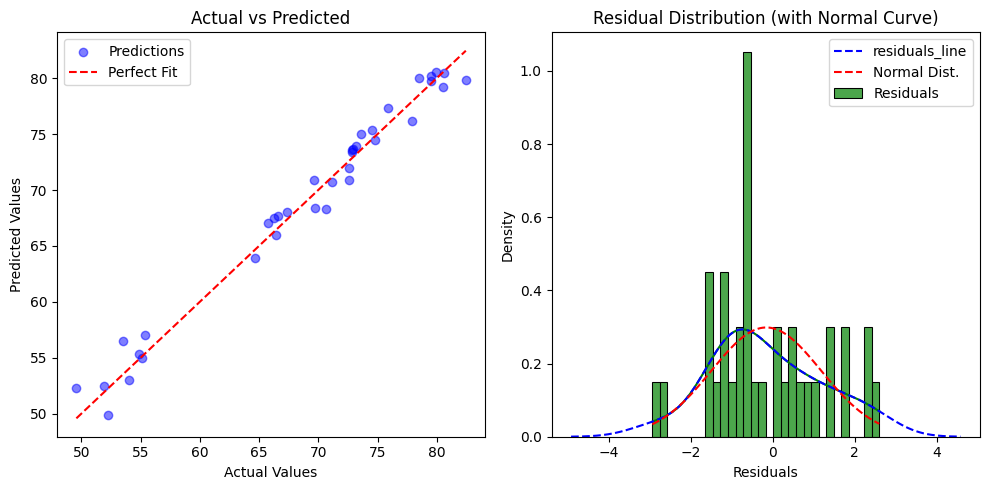
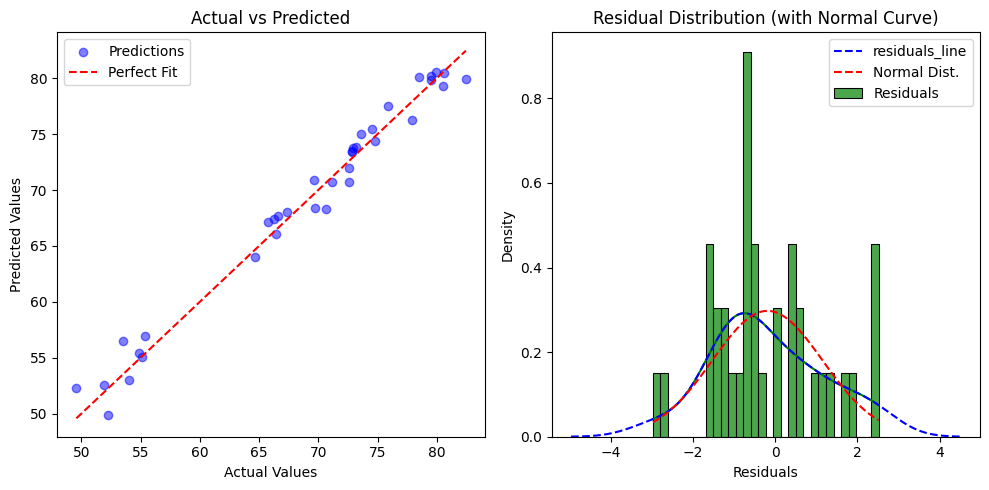
commit

diff --git a/README.md b/README.md
@@ -348,12 +348,12 @@ r2_score:  0.9753758912867433
 ##### 모델 평가
 <code>evaluataion(y_test, y_pred_rf)</code>
 ```plain Text
-mse:  2.194333538302962
-rmse:  1.481328301998906
-mae:  1.1965381944444513
-msle:  0.0005621486868380423
-rmsle:  0.023709674962724442
-r2_score:  0.975561288394381
+mse:  2.194148954074446
+rmse:  1.4812659970695492
+mae:  1.19654427083334
+msle:  0.0005621200999806988
+rmsle:  0.02370907210290396
+r2_score:  0.9755633441441789
 ```
 <img src='./readme_images/after_rfg_graph.png'>
 
@@ -361,13 +361,13 @@ r2_score:  0.975561288394381
 ##### 예측 결과
 <code>korea_pred(rf_model)</code>
 ```plain Text
-예측값: 79.36859375000009
+예측값: 79.0389687500001
 실제값: 79.16
-예측 오차: 0.20859375000009095
+예측 오차: 0.121031249999902
 ```
 
 ##### 피드백
-- Random Forest 모델 또한 평가 지표상에선 기본 선형회귀보다 낮은 성능을 보이는 반면 실제 예측 오차는 0.2로 가장 적은 오차 범위를 보여주고 있다.
+- Random Forest 모델 또한 평가 지표상에선 기본 선형회귀보다 낮은 성능을 보이는 반면 실제 예측 오차는 0.1로 가장 적은 오차 범위를 보여주고 있다.
 
 #### *4. VotingRegressor*
 * `RandomForestRegressor`와 `GradientBoostingRegressor` 모델을 학습시킨 후, `VotingRegressor를` 사용하여 앙상블을 수행
@@ -383,12 +383,12 @@ voting_model.fit(X_train, y_train)
 ##### 모델 평가
 <code>evaluataion(y_test, y_pred_voting)</code>
 ```plain Text
-mse:  1.8332152589246904
-rmse:  1.3539627982055824
-mae:  1.132669451444312
-msle:  0.0004502115988773254
-rmsle:  0.021218190282805114
-r2_score:  0.979583131624316
+mse:  1.8331477334836315
+rmse:  1.3539378617512812
+mae:  1.132672489638757
+msle:  0.00045020182523947946
+rmsle:  0.021217959968844305
+r2_score:  0.9795838836680465
 ```
 <img src='./readme_images/after_ensemble_graph.png'>
 
@@ -396,9 +396,9 @@ r2_score:  0.979583131624316
 ##### 예측 결과
 <code>korea_pred(voting_model)</code>
 ```plain Text
-예측값: 78.29209613990288
+예측값: 79.32571002793755
 실제값: 79.16
-예측 오차: 0.8679038600971154
+예측 오차: 0.16571002793754985
 ```
 
 ##### 피드백
@@ -407,7 +407,16 @@ r2_score:  0.979583131624316
 ## ✅ 최종 피드백 및 모델 선정
 
 - 현재 단일 랜덤포레스트와 다른 앙상블 모델을 비교했을 때 실제 성능 차이가 유의미하게 나지 않는다. 
-- 단일 모델만 사용하는것이 메모리 사용량이 적고 예측속도 또한 차이가 있기에 우리가 이 프로젝트를 위해 최종적으로 사용할 모델은 랜덤포레스트가 적합하다 판단하고 있다. 
+- 단일 모델만 사용하는것이 메모리 사용량이 적고 예측속도 또한 차이가 있기에 우리가 이 프로젝트를 위해 최종적으로 사용할 모델은 랜덤포레스트가 적합하다 판단하였다. 
+
+**Random Forest Regressor 학습 결과**
+<div style="display: flex; justify-content: center; align-items: center;">
+    <img src="./readme_images/rfg_graph.png" width="45%">
+    <img src="./readme_images/rfg_feature.png" width="45%">
+</div>
+
+* `Random Forest Regressor`를 통해 학습한 결과, 가장 큰 영향을 미친 변수는 `Under_five_deaths`(5세 미만 사망률)였으며, 성인 사망률도 일정 부분 영향을 미친 것으로 나타났다. 
+* 그 외 변수들은 큰 영향을 미친 것으로 보이지 않지만, 그 중에서 `Incidents_HIV`(HIV 발생률)는 비교적 미미한 영향을 끼친 것으로 확인되었다.
 
 ---
 
